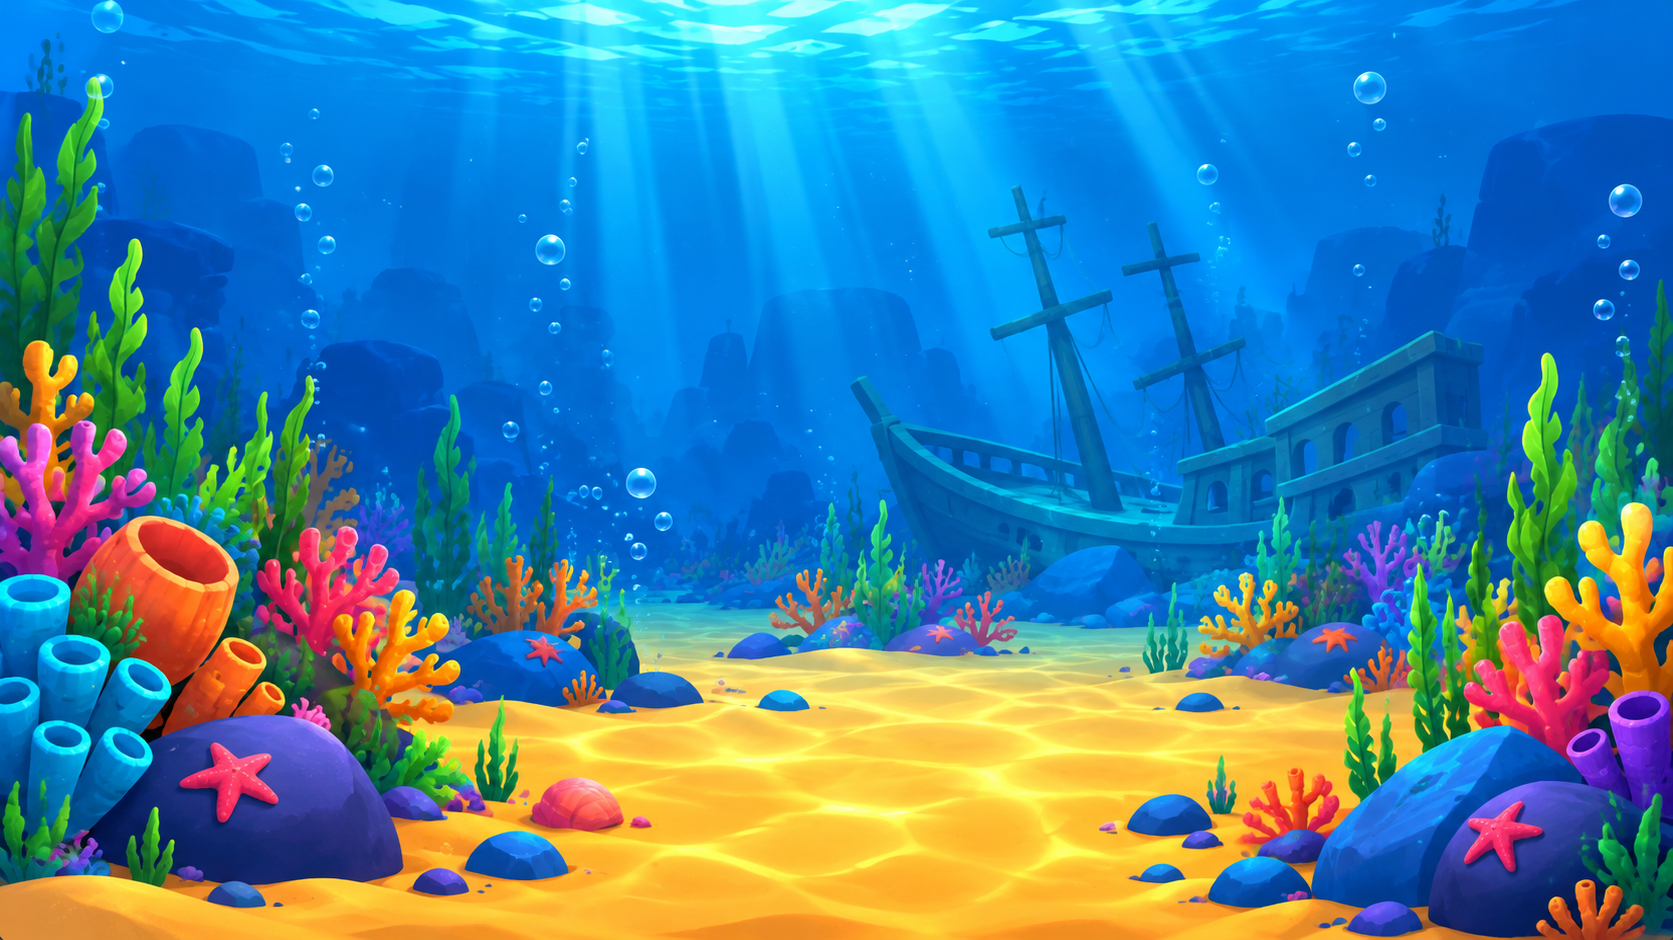
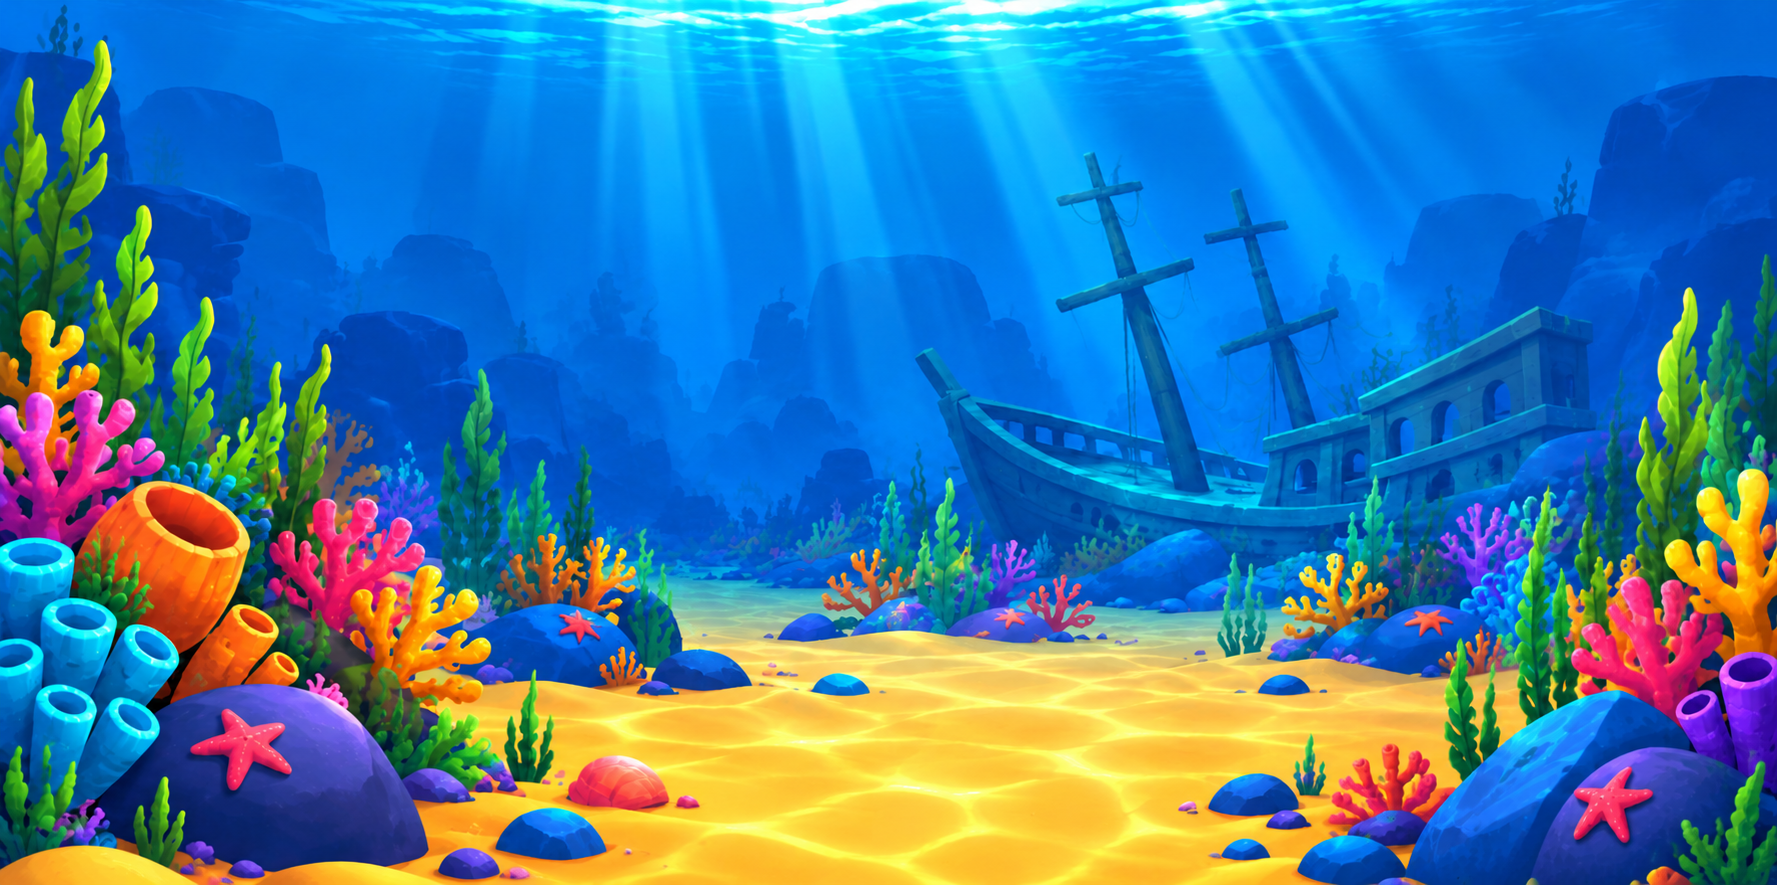
feat: add aquarium depth and foreground occlusion

diff --git a/apps/web/src/components/Aquarium3D/ThreeAquariumView.tsx b/apps/web/src/components/Aquarium3D/ThreeAquariumView.tsx
@@ -294,8 +294,8 @@ export function ThreeAquariumView({
     /*
      * Aquarium dimensions
      */
-    const tankWidth = 13;
-    const tankHeight = 8;
+    const tankWidth = 16;
+    const tankHeight = 10;
     const tankDepth = 10;
 
     /*
@@ -379,6 +379,114 @@ export function ThreeAquariumView({
     );
 
     /*
+     * Foreground occlusion layer.
+     *
+     * This is the transparent coral/rock PNG
+     * placed inside the real 3D scene.
+     *
+     * Fish with a larger Z than this plane are
+     * closer to the camera and render in front.
+     * Fish with a smaller Z swim behind it and
+     * are naturally hidden by the opaque parts
+     * of the PNG.
+     */
+    const foregroundDepth = 2.2;
+
+    const foregroundTexture =
+      new THREE.TextureLoader().load(
+        '/aquarium-foreground.png',
+      );
+
+    foregroundTexture.colorSpace =
+      THREE.SRGBColorSpace;
+
+    foregroundTexture.minFilter =
+      THREE.LinearFilter;
+
+    foregroundTexture.magFilter =
+      THREE.LinearFilter;
+
+    /*
+     * Place the plane on the camera's viewing
+     * axis so it lines up with the fullscreen
+     * illustrated background.
+     */
+    const cameraDirection =
+      new THREE.Vector3();
+
+    camera.getWorldDirection(
+      cameraDirection,
+    );
+
+    const distanceToForeground =
+      (
+        foregroundDepth -
+        camera.position.z
+      ) /
+      cameraDirection.z;
+
+    const foregroundCenter =
+      camera.position
+        .clone()
+        .add(
+          cameraDirection
+            .clone()
+            .multiplyScalar(
+              distanceToForeground,
+            ),
+        );
+
+    const foregroundHeight =
+      2 *
+      distanceToForeground *
+      Math.tan(
+        THREE.MathUtils.degToRad(
+          camera.fov / 2,
+        ),
+      );
+
+    const foregroundWidth =
+      foregroundHeight *
+      camera.aspect;
+
+    const foregroundGeometry =
+      new THREE.PlaneGeometry(
+        foregroundWidth,
+        foregroundHeight,
+      );
+
+    const foregroundMaterial =
+      new THREE.MeshBasicMaterial({
+        map: foregroundTexture,
+        transparent: true,
+        alphaTest: 0.08,
+        depthTest: true,
+        depthWrite: true,
+        side: THREE.DoubleSide,
+        toneMapped: false,
+      });
+
+    const foregroundLayer =
+      new THREE.Mesh(
+        foregroundGeometry,
+        foregroundMaterial,
+      );
+
+    foregroundLayer.position.copy(
+      foregroundCenter,
+    );
+
+    foregroundLayer.quaternion.copy(
+      camera.quaternion,
+    );
+
+    foregroundLayer.renderOrder = 1;
+
+    scene.add(
+      foregroundLayer,
+    );
+
+    /*
      * Renderer
      */
     const renderer =
@@ -435,6 +543,25 @@ export function ThreeAquariumView({
 
     scene.add(
       waterLight,
+    );
+
+    /*
+ * Soft ambient fill.
+ *
+ * Fish can turn through the full X/Z plane,
+ * so some orientations receive very little
+ * directional light. Keep enough ambient
+ * underwater light that their chosen colors
+ * never become almost black.
+ */
+    const ambientLight =
+      new THREE.AmbientLight(
+        0xbfefff,
+        1.15,
+      );
+
+    scene.add(
+      ambientLight,
     );
 
     /*
@@ -944,6 +1071,31 @@ export function ThreeAquariumView({
 
       camera.updateProjectionMatrix();
 
+      /*
+       * Keep the transparent foreground aligned
+       * with the fullscreen camera after resize.
+       */
+      const resizedForegroundHeight =
+        2 *
+        distanceToForeground *
+        Math.tan(
+          THREE.MathUtils.degToRad(
+            camera.fov / 2,
+          ),
+        );
+
+      const resizedForegroundWidth =
+        resizedForegroundHeight *
+        camera.aspect;
+
+      foregroundLayer.scale.set(
+        resizedForegroundWidth /
+        foregroundWidth,
+        resizedForegroundHeight /
+        foregroundHeight,
+        1,
+      );
+
       renderer.setSize(
         width,
         height,
@@ -995,6 +1147,14 @@ export function ThreeAquariumView({
 
       underwaterEffects.destroy();
 
+      scene.remove(
+        foregroundLayer,
+      );
+
+      foregroundGeometry.dispose();
+      foregroundMaterial.dispose();
+      foregroundTexture.dispose();
+
       /*
        * Food meshes share geometry and
        * material, so remove meshes first
@@ -1039,5 +1199,6 @@ export function ThreeAquariumView({
     />
   );
 }
+
 
 

diff --git a/apps/web/src/components/Fish3D/createFish3DModel.ts b/apps/web/src/components/Fish3D/createFish3DModel.ts
@@ -106,16 +106,22 @@ export function createFish3DModel(): Fish3DModel {
   const bodyMaterial =
     new THREE.MeshStandardMaterial({
       color: 0xff8a3d,
-      roughness: 0.55,
+      roughness: 0.65,
       metalness: 0,
+
+      emissive: 0xff8a3d,
+      emissiveIntensity: 0.18,
     });
 
   const finMaterial =
     new THREE.MeshStandardMaterial({
       color: 0xffb347,
-      roughness: 0.6,
+      roughness: 0.7,
       metalness: 0,
       side: THREE.DoubleSide,
+
+      emissive: 0xffb347,
+      emissiveIntensity: 0.16,
     });
 
   const whiteMaterial =
@@ -431,12 +437,20 @@ export function createFish3DModel(): Fish3DModel {
     bodyMaterial.color.set(
       color,
     );
+
+    bodyMaterial.emissive.set(
+      color,
+    );
   };
 
   const setFinColor = (
     color: string,
   ) => {
     finMaterial.color.set(
+      color,
+    );
+
+    finMaterial.emissive.set(
       color,
     );
   };
